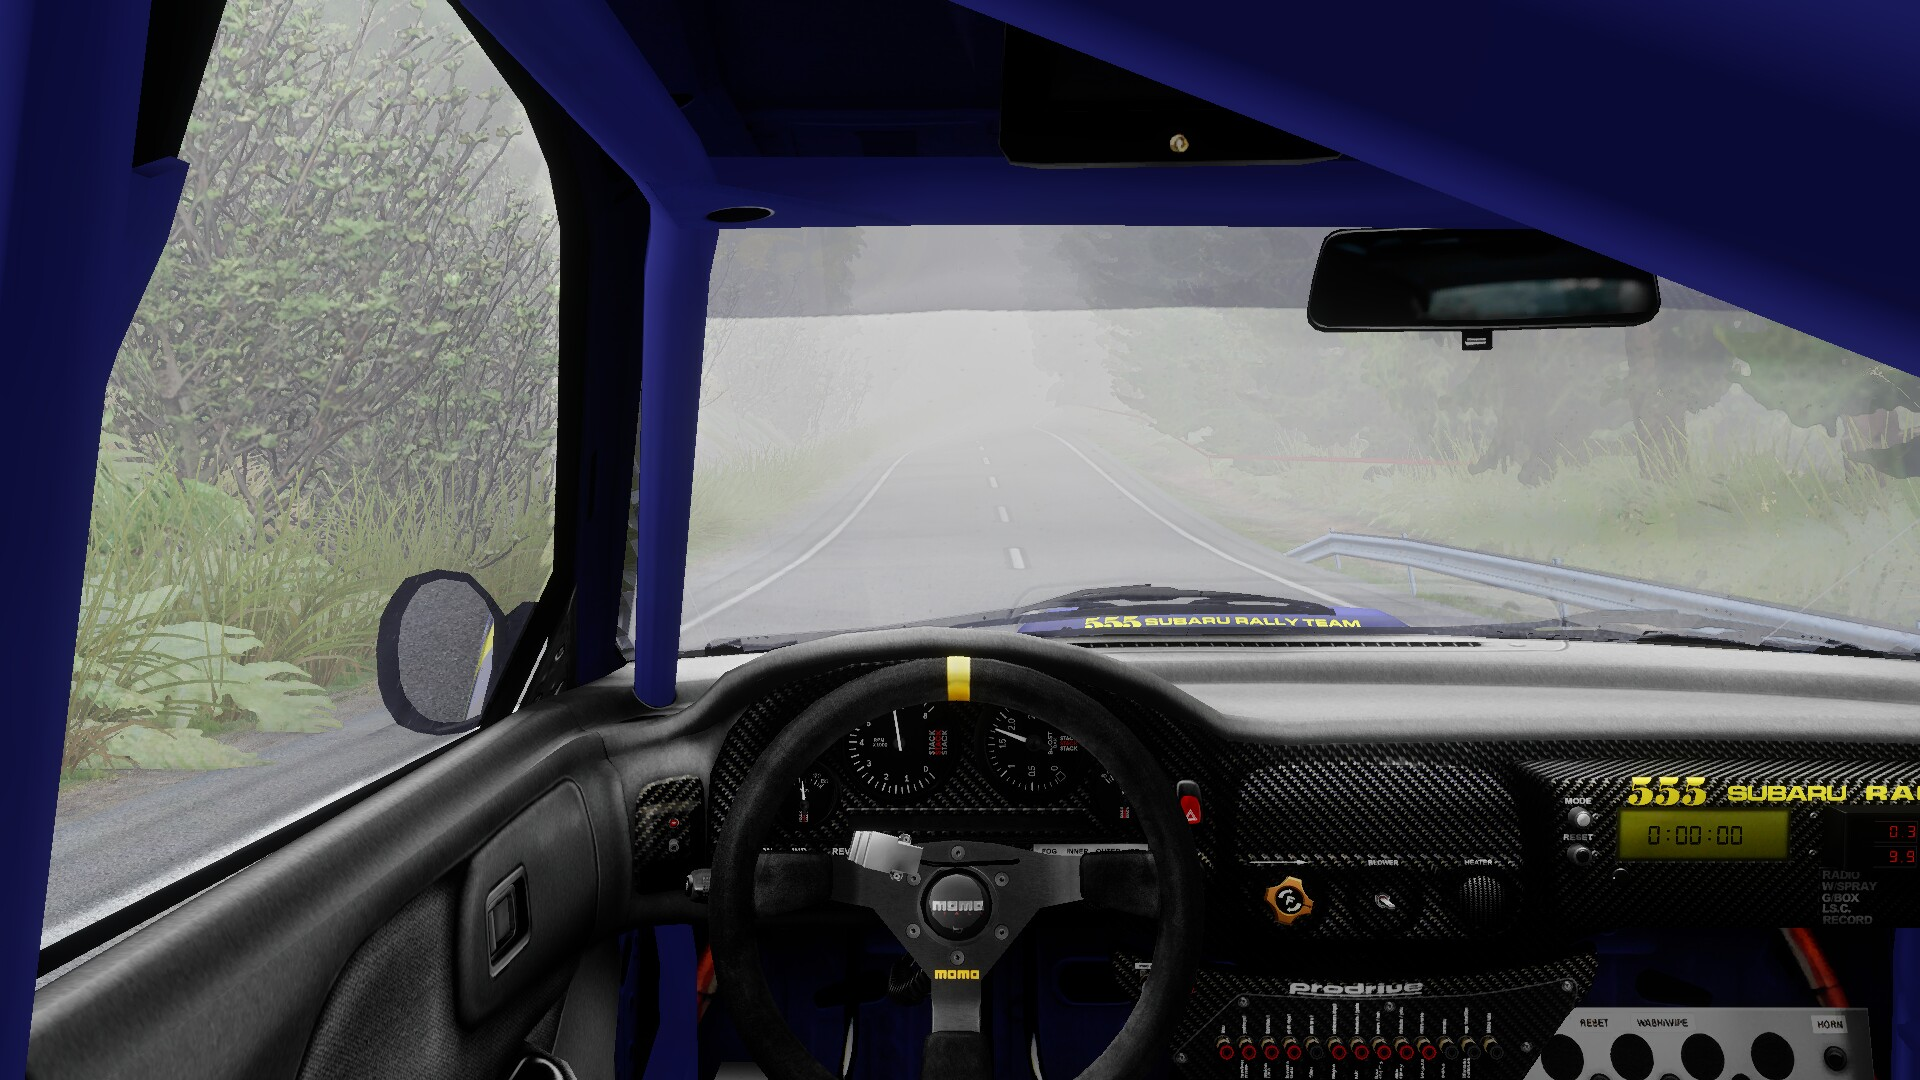
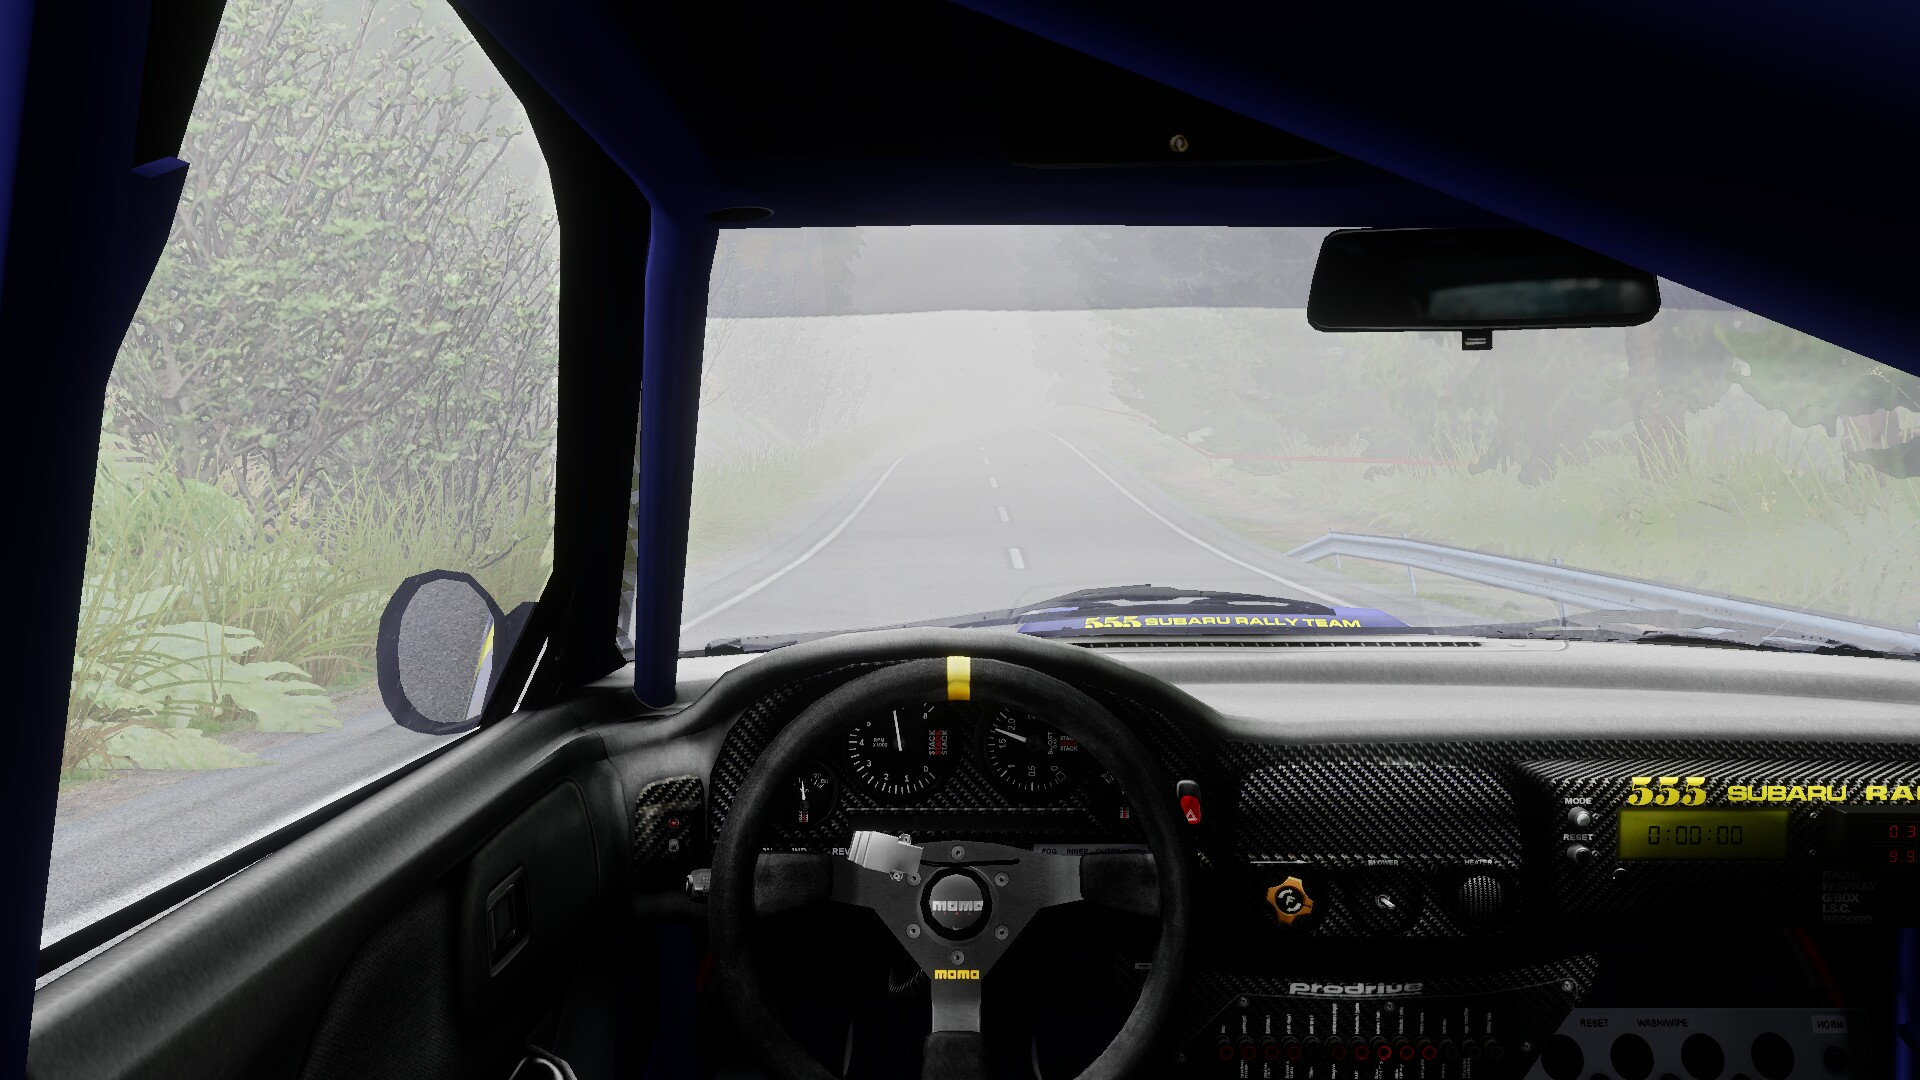
Reference shots: the cabin light by physics; the Wythop cockpit in the Clio Rally3

diff --git a/README.md b/README.md
@@ -22,8 +22,8 @@ Reimplementation of Richard Burns Rally 1.02 with NGP 7 physics which can run na
 | Toyota GR Yaris Rally2 (model by Ha3aP), Comb I (stage by Edd Hartley) | Ford Escort Mk II RS Group 4 (model by Ha3aP, fixed by WorkerBee), Peklo Snow (stage by Miro Kurek) |
 | ![A Ford Fiesta Rally2 at night on Gabiria Legazpi, the headlights lighting the road and the spectators](docs/shots/night-gabiria-fiesta-chase.jpg) | ![A Subaru Impreza GC8 555 in heavy rain on Sipirkakim, Japan](docs/shots/rain-sipirkakim-gc8-chase.jpg) |
 | Ford Fiesta Rally2 (model by G. Rodriguez & D. Antonelli), Gabiria Legazpi (stage by Jan Kaderabek & Lorenzo Clerici) | Subaru Impreza GC8 555 Group A (model by gonzo_kool), Sipirkakim, Japan |
-| ![A Toyota GR Yaris Rally2 throwing up dust in the evening sun on Comb I](docs/shots/golden-621-yaris-flyby.jpg) | ![The cockpit of a BMW M3 E30 Group A on Wythop I, the dials lit by the evening sun](docs/shots/golden-532-m3-cockpit.jpg) |
-| Toyota GR Yaris Rally2 (model by Ha3aP), Comb I (stage by Edd Hartley) | BMW M3 E30 Group A (model by atiwrc), Wythop I (stage by Edd Hartley) |
+| ![A Toyota GR Yaris Rally2 throwing up dust in the evening sun on Comb I](docs/shots/golden-621-yaris-flyby.jpg) | ![The cockpit of a Renault Clio Rally3 on Wythop I in the evening sun, the road seen through the windscreen](docs/shots/golden-532-clio-cockpit.jpg) |
+| Toyota GR Yaris Rally2 (model by Ha3aP), Comb I (stage by Edd Hartley) | Renault Clio Rally3 (model by DMRally74), Wythop I (stage by Edd Hartley) |
 | ![A Renault Clio Rally3 sliding through a corner on Sipirkakim, Japan](docs/shots/day-sipirkakim-clio-flyby.jpg) | ![A Peugeot 208 Rally4 on Helette under evening clouds](docs/shots/golden-580-208-chase.jpg) |
 | Renault Clio Rally3 (model by DMRally74), Sipirkakim, Japan | Peugeot 208 Rally4 (model by DMRally74), Helette (stage by MonkeyZy) |
 | ![The cockpit of a Subaru Impreza GC8 555 in fog on Alpes Rally, the road fading into the haze](docs/shots/fog-alpes-gc8-cockpit.jpg) | ![A Toyota GR Yaris Rally2 on the snow of Peklo Snow](docs/shots/snow-peklo-yaris-chase.jpg) |

diff --git a/docs/shots/README.md b/docs/shots/README.md
@@ -27,17 +27,17 @@ Renault Clio Rally3, Sipirkakim (retail 52), flyby view, 13:00
 
 ## Golden hour
 
+### golden-532-clio-cockpit
+
+Renault Clio Rally3, Wythop I (RSF 532), cockpit view, 18:30
+
+![golden-532-clio-cockpit](golden-532-clio-cockpit.jpg)
+
 ### golden-532-fiesta-chase
 
 Ford Fiesta Rally2, Wythop I (RSF 532), chase view, 18:30
 
 ![golden-532-fiesta-chase](golden-532-fiesta-chase.jpg)
-
-### golden-532-m3-cockpit
-
-BMW M3 E30 GrpA, Wythop I (RSF 532), cockpit view, 18:30
-
-![golden-532-m3-cockpit](golden-532-m3-cockpit.jpg)
 
 ### golden-580-208-chase
 
